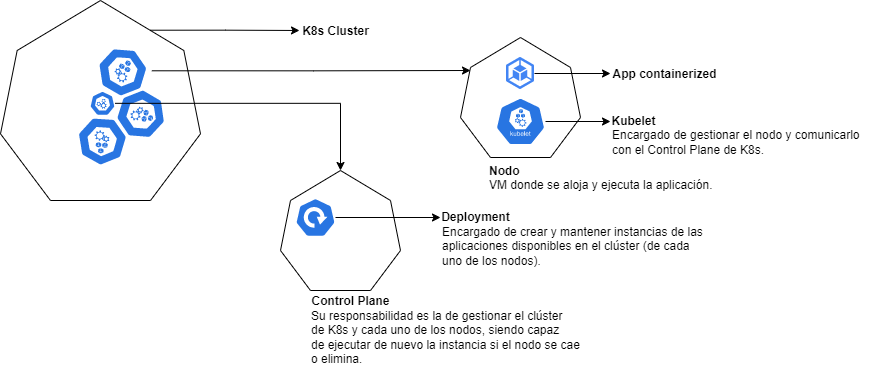
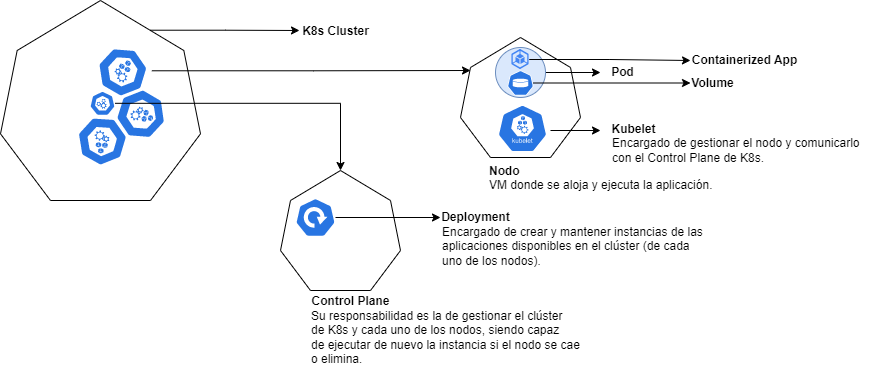
[ADD] Pods and nodes

diff --git a/README.md b/README.md
@@ -126,3 +126,23 @@ En el directorio *ping_api* se ha dejado una pequeña aplicación para simular e
     # verificar que se ha creado correctamente el deployment
     kubectl get deployments {deployment_name}
     ```
+
+## Pods y Nodos
+
+Un **nodo** es una máquina (virtual o física, dependiendo del clúster) gestionado por el Control Plane de K8s. Dentro de cada nodo puede haber varios pods, el cual contendrá la aplicación contenerizada y (opcional) volúmenes.
+
+Cada nodo ejecuta al menos:
+
+- **Kubelet**, el cual se encarga de gestionar el nodo con el Control Plane de K8s; el cual gestiona los pods y los contenedores corriendo dentro de la máquina.
+- **Contenedor runtime** (como Docker) responsable de:
+    - Bajarse la imagen del registry.
+    - Desempaquetal el contenedor.
+    - Ejecutar la aplicación.
+
+Comandos útiles:
+
+- `kubectl get pods`
+- `kubectl describe pod {pod_name}`
+- `kubectl logs {pod_name}`
+- `kubectl exec {pod_name}` -- {command}
+- `kubectl exec -it {pod_name}` -- bash
